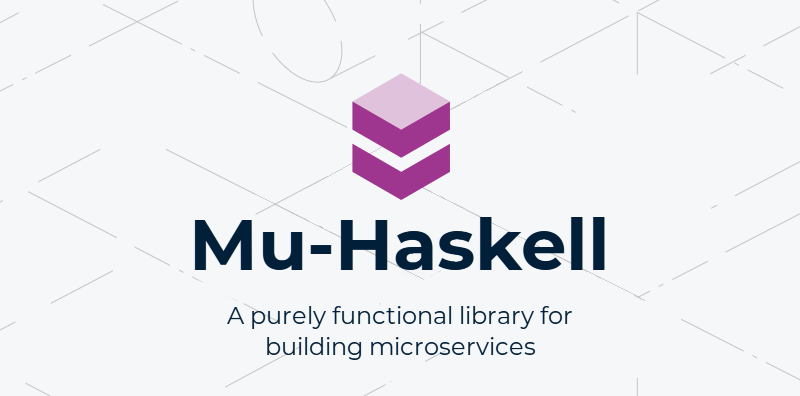
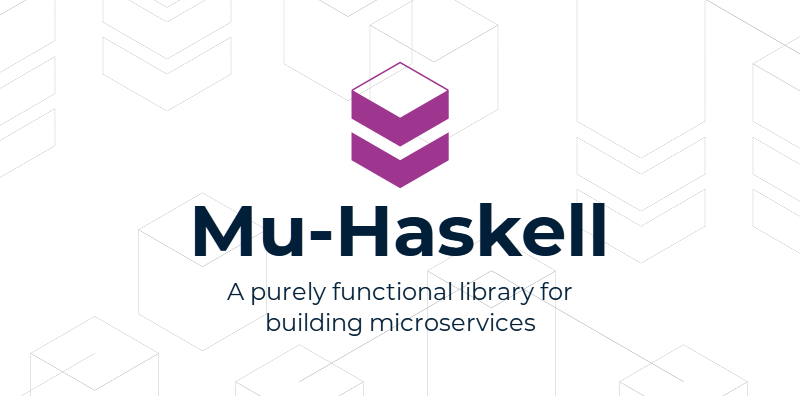
Set new Mu visual identity for the website 💅 (#92)

diff --git a/docs/_sass/components/_sidebar-menu.scss b/docs/_sass/components/_sidebar-menu.scss
@@ -12,7 +12,7 @@
     position: relative;
 
     .sub-menu {
-      background: rgba(0,0,0,0.01);
+      background: $sidebar-active-color;
       max-height: 0;
       transition: max-height 0.3s ease-in-out;
       overflow: hidden;
@@ -26,7 +26,7 @@
         height: auto;
 
         &.active {
-          color: $gray-primary;
+          color: $white;
           box-shadow: 3px 0 $brand-primary inset;
         }
       }
@@ -42,8 +42,8 @@
       padding: $base-point-grid * 2;
       line-height: $base-point-grid * 2;
       width: 100%;
-      color: $gray-primary;
-      @include links($gray-primary, $gray-primary, rgba($gray-primary, 0.8), $gray-primary);
+      color: $white;
+      @include links($white, $white, rgba($white, 0.8), $white);
       transition: background $base-duration $base-timing;
 
       &:hover {
@@ -56,6 +56,9 @@
       right: ($base-point-grid * 3);
       top: $base-point-grid * 2;
       pointer-events: none;
+      transform-origin: 0% 75%;
+      height: 8px;
+      transition: transform 0.2s ease;
     }
 
     .caret::before {
@@ -63,10 +66,9 @@
       position: absolute;
       top: 0;
       left: 0;
-      border-left: 6px solid rgba($gray-primary, 0.8);
+      border-left: 6px solid rgba($white, 0.8);
       border-top: 6px solid transparent;
       border-bottom: 6px solid transparent;
-      transition: border 0.3s ease, top 0.2s ease, left 0.2s ease;
     }
 
     .caret::after {
@@ -74,10 +76,9 @@
       position: absolute;
       left: 0;
       top: 2px;
-      border-left: 4px solid $white;
+      border-left: 4px solid $gray-primary;
       border-top: 4px solid transparent;
       border-bottom: 4px solid transparent;
-      transition: border 0.3s ease, top 0.3s ease, left 0.3s ease;
     }
 
     &.active {
@@ -88,23 +89,15 @@
 
     &.open {
       > a, button {
-          background: rgba(0,0,0,0.03);
+          background: $sidebar-head-active-color;
       }
 
-      .caret::before {
-        top: 4px;
-        left: -6px;
-        border-top: 6px solid rgba($gray-primary, 0.8);
-        border-left: 6px solid transparent;
-        border-right: 6px solid transparent;
+      .caret {
+        transform: rotateZ(90deg);
       }
 
       .caret::after {
-        left: -4px;
-        top: 4px;
-        border-top: 4px solid $white;
-        border-left: 4px solid transparent;
-        border-right: 4px solid transparent;
+        border-left-color: $sidebar-head-active-color;
       }
 
       .sub-menu {

diff --git a/docs/js/docs.js b/docs/js/docs.js
@@ -102,18 +102,24 @@ function activateMenuNesting() {
  * GitHub API and set it on its proper nodes.
  */
 async function loadGitHubStats() {
-  const content = document.querySelector("#content");
-  const ghOwner = content.dataset.githubOwner;
-  const ghRepo = content.dataset.githubRepo;
+  const ghInfo = document.querySelector('meta[property="github-info"]');
+  const ghOwner = ghInfo.dataset.githubOwner;
+  const ghRepo = ghInfo.dataset.githubRepo;
 
   if (ghOwner && ghRepo) {
     const ghAPI = `https://api.github.com/repos/${ghOwner}/${ghRepo}`;
     const ghDataResponse = await fetch(ghAPI);
     const ghData = await ghDataResponse.json();
-    const watchersElement = document.querySelector("#eyes");
-    const starsElement = document.querySelector("#stars");
-    watchersElement.textContent = ghData.subscribers_count;
-    starsElement.textContent = ghData.stargazers_count;
+		const ghStars = ghData.stargazers_count;
+		const starsElement = document.querySelector("#stars-count");
+		if (starsElement) {
+			if (ghStars) {
+				starsElement.textContent = `☆ ${ghStars}`;
+			}
+			else {
+				starsElement.remove();
+			}
+		}
   }
 }
 
@@ -126,7 +132,7 @@ function anchorForId(id) {
   const anchor = document.createElement("a");
   anchor.className = "header-link";
   anchor.href = `#${id}`;
-  anchor.innerHTML = '<i class="fa fa-link"></i>';
+	anchor.innerHTML = '🔗';
   return anchor;
 }
 
@@ -148,7 +154,7 @@ function linkifyAnchors(level, containingElement) {
  * Function
  */
 function linkifyAllLevels() {
-  const content = document.querySelector("#content");
+  const content = document.querySelector(".doc-content");
   [...Array(7).keys()].map(level => {
     linkifyAnchors(level, content);
   });
@@ -157,6 +163,6 @@ function linkifyAllLevels() {
 window.addEventListener("DOMContentLoaded", () => {
   activateToggle();
   activateMenuNesting();
-  // loadGitHubStats();
-  // linkifyAllLevels();
+  loadGitHubStats();
+  linkifyAllLevels();
 });

diff --git a/docs/_includes/_head-docs.html b/docs/_includes/_head-docs.html
@@ -1,14 +1,21 @@
 <head>
     <meta charset="UTF-8">
-    <title>{{site.name}}</title>
+
+    {% if page.title %}
+    {% assign pageTitle = site.title | append: ': ' | append: page.title %}
+    {% else %}
+    {% assign pageTitle = site.title %}
+    {% endif %}
+
+    <title>{{ pageTitle }}</title>
     <meta name="viewport" content="width=device-width, initial-scale=1.0">
     <meta name="description" content="{{site.description}}">
     <meta name="keywords" content="{{site.keywords}}">
 
     <meta property="og:image" content="{{ 'img/poster.png' | relative_url }}" />
-    <meta property="og:title" content="{{site.name}}" />
-    <meta property="og:site_name" content="{{site.name}}" />
-    <meta property="og:url" content="https://higherkindness.io/mu-haskell" />
+    <meta property="og:title" content="{{ pageTitle }}" />
+    <meta property="og:site_name" content="{{ pageTitle }}" />
+    <meta property="og:url" content="{{ site.url }}" />
     <meta property="og:type" content="website" />
     <meta property="og:description" content="{{site.description}}" />
     <meta property="og:keywords" content="{{site.keywords}}" />
@@ -18,6 +25,8 @@
     <meta name="twitter:site" content="@47deg">
     <meta name="twitter:creator" content="@47deg">
     <meta name="twitter:image" content="{{ 'img/poster.png' | relative_url }}" />
+
+    <meta property="github-info" data-github-owner="{{ site.github-owner }}" data-github-repo="{{ site.github-repo }}" />
 
     <script defer src="{{ '/js/docs.js' | relative_url }}"></script>
 

diff --git a/docs/_sass/components/_doc.scss b/docs/_sass/components/_doc.scss
@@ -41,13 +41,21 @@
         align-items: center;
 
         .link-item {
-          margin-left: ($base-point-grid * 2);
+          margin-left: ($base-point-grid * 3);
+
+          .strong {
+            font-weight: 600;
+          }
+
+          a:hover {
+            text-decoration: none;
+          }
         }
       }
     }
 
     .doc-content {
-      padding: ($base-point-grid * 3);
+      padding: ($base-point-grid * 4);
     }
 
     h1 {
@@ -98,6 +106,36 @@
             list-style: disc;
         }
     }
+
+    .header-link {
+      position: absolute;
+      font-size: 0.6em;
+      left: -2em;
+      top: -0.15em;
+      opacity: 0;
+      padding: 0.8em;
+      outline: none;
+      transform: rotate3d(0, 0, 1, 45deg) scale3d(0.5, 0.5, 0.5);
+      transition: opacity 0.2s ease, transform 0.2s ease;
+
+      &:hover,
+      &:focus,
+      &:active {
+        text-decoration: none;
+      }
+    }
+
+    h1:hover,
+    h2:hover,
+    h3:hover,
+    h4:hover,
+    h5:hover,
+    h6:hover {
+      .header-link {
+        opacity: 1;
+        transform: rotate3d(0, 0, 1, 45deg) scale3d(1, 1, 1);
+      }
+    }
 }
 
 // Responsive
@@ -105,5 +143,9 @@
 @include bp(medium) {
     #site-doc {
         left: 0;
+
+        &.expanded {
+          overflow: hidden;
+        }
     }
 }

diff --git a/docs/_includes/_doc.html b/docs/_includes/_doc.html
@@ -5,15 +5,18 @@
         type="button"
         class="button doc-toggle"
         title="Toggle">
-          <img src="{{ site.baseurl }}/img/sidebar-icon-open.svg" alt="Toggle">
+          <img src="{{ 'img/sidebar-icon-open.svg' | relative_url }}" alt="Toggle" title="Toggle">
       </button>
 
       <div class="link-container">
         <div class="link-item">
-          <a href="{{ 'haddock/index.html' | relative_url }}">API Docs</a>
+          <a class="strong" href="{{ 'haddock/' | relative_url }}" title="API Docs" target="_blank" rel="noopener noreferrer">API Docs</a>
         </div>
         <div class="link-item">
-          <a href="https://github.com/higherkindness/mu-haskell">GitHub</a>
+          <a href="https://github.com/{{ site.github-owner }}/{{ site.github-repo }}" title="GitHub repo" target="_blank" rel="noopener noreferrer">
+            <span class="strong">GitHub</span>
+            <span id="stars-count"></span>
+          </a>
         </div>
       </div>
 

diff --git a/docs/_includes/_footer.html b/docs/_includes/_footer.html
@@ -2,9 +2,11 @@
     <div class="wrapper">
         <div class="footer-flex">
             <div class="footer-dev">
-                <p>mu-haskell is designed and developed by
-                  <a href="https://github.com/higherkindness/mu-haskell/" target="_blank" rel="noopener noreferrer">{{ site.name }}</a>
-                  with support from <a href="https://www.47deg.com/" target="_blank" rel="noopener noreferrer">47 Degrees</a></p>
+                <p>
+                  Mu-Haskell is designed and developed by
+                  <a href="https://github.com/{{ site.github-owner }}/{{ site.github-repo }}/" target="_blank" rel="noopener noreferrer">{{ site.name }}</a>
+                  with support from <a href="https://www.47deg.com/" target="_blank" rel="noopener noreferrer">47 Degrees</a>
+                </p>
             </div>
             <ul class="footer-menu">
                 {% for item in site.data.menu.nav %}

diff --git a/docs/_sass/components/_sidebar.scss b/docs/_sass/components/_sidebar.scss
@@ -4,7 +4,7 @@
 
 #site-sidebar {
     position: fixed;
-    background-image: linear-gradient(to bottom, $white 60%, darken($white, 3%) 100%);
+    background-image: linear-gradient(to bottom, $brand-secondary 60%, darken($brand-secondary, 3%) 100%);
     border-right: 1px solid rgba(0,0,0,0.1);
     width: 290px;
     height: 100%;
@@ -31,8 +31,7 @@
 
         a {
             display: flex;
-            color: $gray-primary;
-            justify-content: center;
+            color: $white;
             align-items: center;
             width: 100%;
             transition: none;
@@ -72,6 +71,7 @@
 
         &.toggled {
             left: 0;
+            overflow-y: auto;
         }
 
         .sidebar-toggle {

diff --git a/docs/_sass/utils/_variables.scss b/docs/_sass/utils/_variables.scss
@@ -16,8 +16,8 @@ $gray-primary: #001E38;
 $white: rgb(255, 255, 255);
 $link-color: darken($brand-primary, 10%);
 $link-hover: darken($brand-primary, 15%);
-$sidebar-active-color: $white;
-$sidebar-head-active-color: darken($white, 3%);
+$sidebar-active-color: lighten($brand-secondary, 2%);
+$sidebar-head-active-color: lighten($brand-secondary, 4%);
 
 // Typography
 // -----------------------------------------------

diff --git a/docs/_sass/base/_base.scss b/docs/_sass/base/_base.scss
@@ -39,6 +39,7 @@ h6 {
     color: $header-font-color;
     font-family: $header-font-family;
     font-weight: $font-semibold;
+    position: relative;
 }
 
 a {
@@ -54,7 +55,7 @@ a {
         text-decoration: underline;
     }
     &:active {
-        color: $white;
+        color: $link-hover;
     }
 }
 

diff --git a/docs/_sass/components/_button.scss b/docs/_sass/components/_button.scss
@@ -28,7 +28,7 @@
 
   &::before,
   &::after {
-    background-color: $gray-primary;
+    background-color: $white;
     content: " ";
     height: 100%;
     left: 98%;

diff --git a/docs/docs/grpc.md b/docs/docs/grpc.md
@@ -1,6 +1,6 @@
 ---
 layout: docs
-title: Mu-Haskell
+title: gRPC servers and clients
 permalink: grpc/
 ---
 

diff --git a/docs/docs/rpc.md b/docs/docs/rpc.md
@@ -1,6 +1,6 @@
 ---
 layout: docs
-title: Mu-Haskell
+title: Services and servers
 permalink: rpc/
 ---
 
